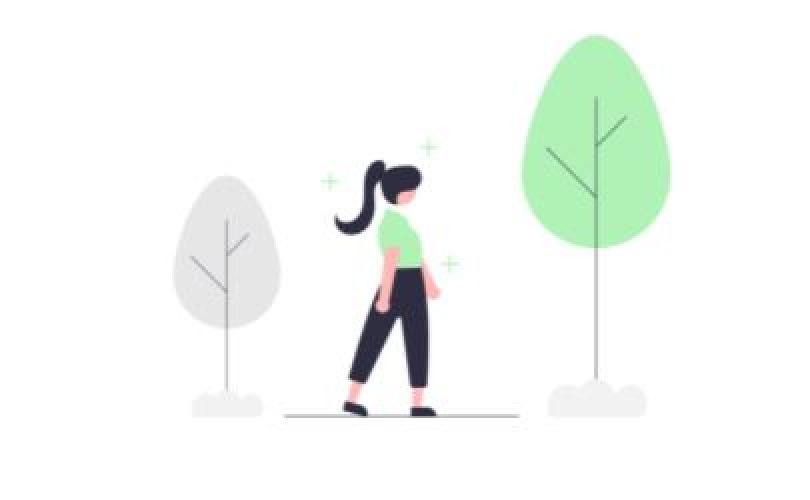
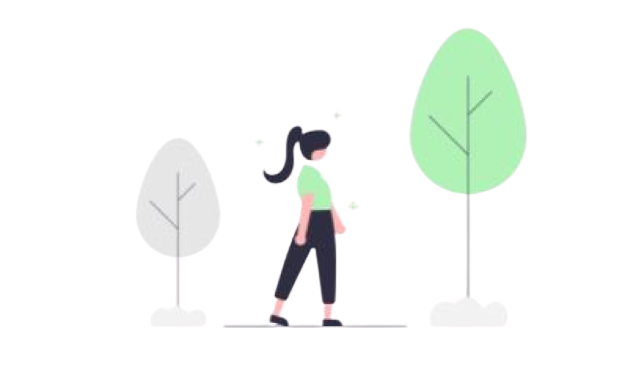
:ambulance: Contact css

diff --git a/public/assets/contact.css b/public/assets/contact.css
@@ -1,25 +1,45 @@
+@import url('https://fonts.googleapis.com/css2?family=Quicksand&display=swap');
+
+.contactTitle{
+    font-family: 'Quicksand', sans-serif;
+    color: rgb(73,148,93);
+    font-size: 120%;
+    margin-left: 2%;
+    margin-top: 9%;
+}
+
+.contactAll{
+    display: flex;
+}
+
+.imgContact{
+    width: 30%;
+    height: 30%;
+    margin-top: 3%;
+    margin-right: 13.5%;
+}
+
 .formContact{
     display: flex;
     flex-direction: column;
     text-align: center;
-    margin-bottom: 8%;
-    margin-top: 7%;
+    margin-bottom: 5%;
+    margin-top: 1%;
 }
 
 .nom{
     margin-bottom: 1%;
-    width: 20%;
+    width: 100%;
     align-self: center;
-
 }
 
 .formNom{
-    border: 1px solid #111;
-    background: #c6ffd0;
+    border: 1px solid rgba(17, 17, 17, 0.35);
+    background-color: rgba(198, 255, 208, 0.65);
     border-radius: 20px;
     text-align: center;
     height: 40px;
-    font-family: "ABeeZee", sans-serif;
+    font-family: 'Quicksand', sans-serif;
     font-size: 13px;
     width: 95%;
 }
@@ -33,48 +53,66 @@
 }
 
 .email{
-    width: 20%;
+    width: 100%;
     align-self: center;
 }
 
 .formEmail{
-    border: 1px solid #111;
-    background: #c6ffd0;
+    border: 1px solid rgba(17, 17, 17, 0.35);
+    background-color: rgba(198, 255, 208, 0.65);
     border-radius: 20px;
     text-align: center;
     height: 40px;
-    font-family: "ABeeZee", sans-serif;
+    font-family: 'Quicksand', sans-serif;
     font-size: 13px;
     width: 95%;
 }
 
 .formEmail::placeholder{
     color:#111;
+    font-family: 'Quicksand', sans-serif;
 }
 
 .formEmail::-moz-placeholder{
     color:#111;
+    font-family: 'Quicksand', sans-serif;
+}
+
+.formMessage{
+    background-color: rgba(198, 255, 208, 0.65);
+    color: rgb(92, 136, 104);
+    font-family: 'Quicksand', sans-serif;
 }
 
 .envoyer button{
-    background-color: #48945d;
+    background-color: rgba(72, 148, 93, 0.8);
     color: white;
     padding: 10px 50px;
     transition: background-color 0.2s;
-    box-shadow: 0 15px 10px -15px #111;
+    box-shadow: 0 15px 10px -15px rgb(17, 17, 17);
     font-size: 15px;
     border-radius: 25px;
     cursor: pointer;
-    border: 2px solid #48945d;
+    border: 2px solid rgba(72, 148, 93, 0.8);
+    font-family: 'Quicksand', sans-serif;
 }
 
 .envoyer button:hover {
-    background-color: rgba(72, 148, 93, 0.78);
+    background-color: rgba(72, 148, 93, 0.60);
     transition: background-color 0.2s;
 }
 
 @media only screen and (max-width:768px){
+    .contactAll{
+        display: flex;
+        justify-content: center;
+    }
+
+    .imgContact{
+        display: none;
+    }
+
     .nom{
-        width: 20%;
+        width: 100%;
     }
 }
